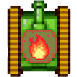
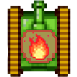
Added water tanks

Changed region(s): [[0.2857, 0.4156, 0.7273, 0.8052], [0.6753, 0.7532, 0.7013, 0.7792]]

diff --git a/Properties/Resources.Designer.cs b/Properties/Resources.Designer.cs
@@ -93,6 +93,16 @@ namespace ElementalTanks.Properties {
         /// <summary>
         ///   Looks up a localized resource of type System.Drawing.Bitmap.
         /// </summary>
+        internal static System.Drawing.Bitmap tank1Water {
+            get {
+                object obj = ResourceManager.GetObject("tank1Water", resourceCulture);
+                return ((System.Drawing.Bitmap)(obj));
+            }
+        }
+        
+        /// <summary>
+        ///   Looks up a localized resource of type System.Drawing.Bitmap.
+        /// </summary>
         internal static System.Drawing.Bitmap tank2 {
             get {
                 object obj = ResourceManager.GetObject("tank2", resourceCulture);
@@ -106,6 +116,16 @@ namespace ElementalTanks.Properties {
         internal static System.Drawing.Bitmap tank2Fire {
             get {
                 object obj = ResourceManager.GetObject("tank2Fire", resourceCulture);
+                return ((System.Drawing.Bitmap)(obj));
+            }
+        }
+        
+        /// <summary>
+        ///   Looks up a localized resource of type System.Drawing.Bitmap.
+        /// </summary>
+        internal static System.Drawing.Bitmap tank2Water {
+            get {
+                object obj = ResourceManager.GetObject("tank2Water", resourceCulture);
                 return ((System.Drawing.Bitmap)(obj));
             }
         }

diff --git a/Tank.cs b/Tank.cs
@@ -19,7 +19,7 @@ namespace ElementalTanks
 
     class Tank
     {
-        public ElementType Element { get; }
+        public ElementType Element { get; set; }
         public int Health { get; set; }
         public int MoveSpeed { get; private set; }
 
@@ -36,6 +36,7 @@ namespace ElementalTanks
 
         public Tank(int spriteNumber, int x, int y, ElementType element, int moveSpeed)
         {
+            Element = element;
             Health = 100;
             this.spriteNumber = spriteNumber;
             MoveSpeed = moveSpeed;
@@ -44,7 +45,6 @@ namespace ElementalTanks
             Y = y;
             Sprite = SourceImage;
            
-            Element = element;
 
             Rotations = new Dictionary<string, RotateFlipType>
             {
@@ -62,6 +62,7 @@ namespace ElementalTanks
                 ["Right"] = (MoveSpeed, 0)
             };
         }
+       
 
         public bool IsInBounds(Form form)
         {

diff --git a/Form1.cs b/Form1.cs
@@ -30,9 +30,9 @@ namespace ElementalTanks
             player = new Tank(1, 300, 300, ElementType.Fire, 10);
             enemies = new List<Tank>
             {
-                new Tank(2, 100, 100, ElementType.Fire, 5),
+                new Tank(2, 100, 100, ElementType.Water, 5),
                 new Tank(2, 400, 300, ElementType.Fire, 5),
-                new Tank(2, 500, 100, ElementType.Fire, 5)
+                new Tank(2, 500, 100, ElementType.Water, 5)
             };
             bullets = new List<Bullet>();
 
@@ -61,6 +61,8 @@ namespace ElementalTanks
         private void MainTimerEvent(object sender, EventArgs e)
         {
             player.Rotate();
+            foreach (var enemy in enemies)
+                enemy.Rotate();
             Invalidate();
 
             if (isGoing && player.IsInBounds(this))
